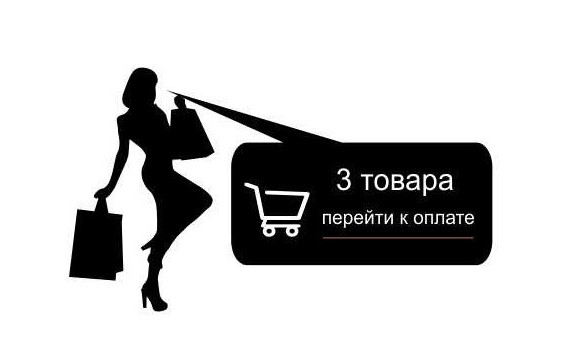
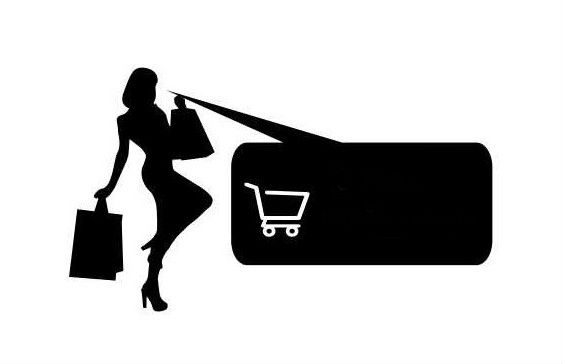
deploy

Changed region(s): [[0.5717, 0.5742, 0.8425, 0.6648], [0.6018, 0.4533, 0.8124, 0.544]]

diff --git a/cart/index.html b/cart/index.html
@@ -65,18 +65,20 @@
         </div>
       </nav>
       <div class='container hidden-xs'>
-        <div class='row'>
-          <div class='col-md-4 col-sm-4 col-xs-4 min_height'>
+        <div class='header-row'>
+          <div class='col col-1'>
             <a href='/storebot/support'>
               <img class='img-responsive' src='/storebot/images/1.jpg'>
             </a>
           </div>
-          <div class='col-md-4 col-sm-4 col-xs-4 min_height'>
+          <div class='col col-2'>
+            <div id='borderLeft'></div>
             <a href='/storebot/cart'>
               <img class='img-responsive' src='/storebot/images/2.jpg'>
             </a>
           </div>
-          <div class='col-md-4 col-sm-4 col-xs-4 min_height'>
+          <div class='col col-3'>
+            <div id='borderLeft'></div>
             <a href='/storebot/map'>
               <img class='img-responsive' src='/storebot/images/3.jpg'>
             </a>

diff --git a/catalog/1/index.html b/catalog/1/index.html
@@ -65,18 +65,20 @@
         </div>
       </nav>
       <div class='container hidden-xs'>
-        <div class='row'>
-          <div class='col-md-4 col-sm-4 col-xs-4 min_height'>
+        <div class='header-row'>
+          <div class='col col-1'>
             <a href='/storebot/support'>
               <img class='img-responsive' src='/storebot/images/1.jpg'>
             </a>
           </div>
-          <div class='col-md-4 col-sm-4 col-xs-4 min_height'>
+          <div class='col col-2'>
+            <div id='borderLeft'></div>
             <a href='/storebot/cart'>
               <img class='img-responsive' src='/storebot/images/2.jpg'>
             </a>
           </div>
-          <div class='col-md-4 col-sm-4 col-xs-4 min_height'>
+          <div class='col col-3'>
+            <div id='borderLeft'></div>
             <a href='/storebot/map'>
               <img class='img-responsive' src='/storebot/images/3.jpg'>
             </a>

diff --git a/catalog/2/index.html b/catalog/2/index.html
@@ -65,18 +65,20 @@
         </div>
       </nav>
       <div class='container hidden-xs'>
-        <div class='row'>
-          <div class='col-md-4 col-sm-4 col-xs-4 min_height'>
+        <div class='header-row'>
+          <div class='col col-1'>
             <a href='/storebot/support'>
               <img class='img-responsive' src='/storebot/images/1.jpg'>
             </a>
           </div>
-          <div class='col-md-4 col-sm-4 col-xs-4 min_height'>
+          <div class='col col-2'>
+            <div id='borderLeft'></div>
             <a href='/storebot/cart'>
               <img class='img-responsive' src='/storebot/images/2.jpg'>
             </a>
           </div>
-          <div class='col-md-4 col-sm-4 col-xs-4 min_height'>
+          <div class='col col-3'>
+            <div id='borderLeft'></div>
             <a href='/storebot/map'>
               <img class='img-responsive' src='/storebot/images/3.jpg'>
             </a>

diff --git a/catalog/3/index.html b/catalog/3/index.html
@@ -65,18 +65,20 @@
         </div>
       </nav>
       <div class='container hidden-xs'>
-        <div class='row'>
-          <div class='col-md-4 col-sm-4 col-xs-4 min_height'>
+        <div class='header-row'>
+          <div class='col col-1'>
             <a href='/storebot/support'>
               <img class='img-responsive' src='/storebot/images/1.jpg'>
             </a>
           </div>
-          <div class='col-md-4 col-sm-4 col-xs-4 min_height'>
+          <div class='col col-2'>
+            <div id='borderLeft'></div>
             <a href='/storebot/cart'>
               <img class='img-responsive' src='/storebot/images/2.jpg'>
             </a>
           </div>
-          <div class='col-md-4 col-sm-4 col-xs-4 min_height'>
+          <div class='col col-3'>
+            <div id='borderLeft'></div>
             <a href='/storebot/map'>
               <img class='img-responsive' src='/storebot/images/3.jpg'>
             </a>

diff --git a/catalog/4/index.html b/catalog/4/index.html
@@ -65,18 +65,20 @@
         </div>
       </nav>
       <div class='container hidden-xs'>
-        <div class='row'>
-          <div class='col-md-4 col-sm-4 col-xs-4 min_height'>
+        <div class='header-row'>
+          <div class='col col-1'>
             <a href='/storebot/support'>
               <img class='img-responsive' src='/storebot/images/1.jpg'>
             </a>
           </div>
-          <div class='col-md-4 col-sm-4 col-xs-4 min_height'>
+          <div class='col col-2'>
+            <div id='borderLeft'></div>
             <a href='/storebot/cart'>
               <img class='img-responsive' src='/storebot/images/2.jpg'>
             </a>
           </div>
-          <div class='col-md-4 col-sm-4 col-xs-4 min_height'>
+          <div class='col col-3'>
+            <div id='borderLeft'></div>
             <a href='/storebot/map'>
               <img class='img-responsive' src='/storebot/images/3.jpg'>
             </a>

diff --git a/catalog/5/index.html b/catalog/5/index.html
@@ -65,18 +65,20 @@
         </div>
       </nav>
       <div class='container hidden-xs'>
-        <div class='row'>
-          <div class='col-md-4 col-sm-4 col-xs-4 min_height'>
+        <div class='header-row'>
+          <div class='col col-1'>
             <a href='/storebot/support'>
               <img class='img-responsive' src='/storebot/images/1.jpg'>
             </a>
           </div>
-          <div class='col-md-4 col-sm-4 col-xs-4 min_height'>
+          <div class='col col-2'>
+            <div id='borderLeft'></div>
             <a href='/storebot/cart'>
               <img class='img-responsive' src='/storebot/images/2.jpg'>
             </a>
           </div>
-          <div class='col-md-4 col-sm-4 col-xs-4 min_height'>
+          <div class='col col-3'>
+            <div id='borderLeft'></div>
             <a href='/storebot/map'>
               <img class='img-responsive' src='/storebot/images/3.jpg'>
             </a>

diff --git a/catalog/6/index.html b/catalog/6/index.html
@@ -65,18 +65,20 @@
         </div>
       </nav>
       <div class='container hidden-xs'>
-        <div class='row'>
-          <div class='col-md-4 col-sm-4 col-xs-4 min_height'>
+        <div class='header-row'>
+          <div class='col col-1'>
             <a href='/storebot/support'>
               <img class='img-responsive' src='/storebot/images/1.jpg'>
             </a>
           </div>
-          <div class='col-md-4 col-sm-4 col-xs-4 min_height'>
+          <div class='col col-2'>
+            <div id='borderLeft'></div>
             <a href='/storebot/cart'>
               <img class='img-responsive' src='/storebot/images/2.jpg'>
             </a>
           </div>
-          <div class='col-md-4 col-sm-4 col-xs-4 min_height'>
+          <div class='col col-3'>
+            <div id='borderLeft'></div>
             <a href='/storebot/map'>
               <img class='img-responsive' src='/storebot/images/3.jpg'>
             </a>

diff --git a/catalog/template/index.html b/catalog/template/index.html
@@ -65,18 +65,20 @@
         </div>
       </nav>
       <div class='container hidden-xs'>
-        <div class='row'>
-          <div class='col-md-4 col-sm-4 col-xs-4 min_height'>
+        <div class='header-row'>
+          <div class='col col-1'>
             <a href='/storebot/support'>
               <img class='img-responsive' src='/storebot/images/1.jpg'>
             </a>
           </div>
-          <div class='col-md-4 col-sm-4 col-xs-4 min_height'>
+          <div class='col col-2'>
+            <div id='borderLeft'></div>
             <a href='/storebot/cart'>
               <img class='img-responsive' src='/storebot/images/2.jpg'>
             </a>
           </div>
-          <div class='col-md-4 col-sm-4 col-xs-4 min_height'>
+          <div class='col col-3'>
+            <div id='borderLeft'></div>
             <a href='/storebot/map'>
               <img class='img-responsive' src='/storebot/images/3.jpg'>
             </a>

diff --git a/index.html b/index.html
@@ -65,18 +65,20 @@
         </div>
       </nav>
       <div class='container hidden-xs'>
-        <div class='row'>
-          <div class='col-md-4 col-sm-4 col-xs-4 min_height'>
+        <div class='header-row'>
+          <div class='col col-1'>
             <a href='/storebot/support'>
               <img class='img-responsive' src='/storebot/images/1.jpg'>
             </a>
           </div>
-          <div class='col-md-4 col-sm-4 col-xs-4 min_height'>
+          <div class='col col-2'>
+            <div id='borderLeft'></div>
             <a href='/storebot/cart'>
               <img class='img-responsive' src='/storebot/images/2.jpg'>
             </a>
           </div>
-          <div class='col-md-4 col-sm-4 col-xs-4 min_height'>
+          <div class='col col-3'>
+            <div id='borderLeft'></div>
             <a href='/storebot/map'>
               <img class='img-responsive' src='/storebot/images/3.jpg'>
             </a>

diff --git a/map/index.html b/map/index.html
@@ -65,18 +65,20 @@
         </div>
       </nav>
       <div class='container hidden-xs'>
-        <div class='row'>
-          <div class='col-md-4 col-sm-4 col-xs-4 min_height'>
+        <div class='header-row'>
+          <div class='col col-1'>
             <a href='/storebot/support'>
               <img class='img-responsive' src='/storebot/images/1.jpg'>
             </a>
           </div>
-          <div class='col-md-4 col-sm-4 col-xs-4 min_height'>
+          <div class='col col-2'>
+            <div id='borderLeft'></div>
             <a href='/storebot/cart'>
               <img class='img-responsive' src='/storebot/images/2.jpg'>
             </a>
           </div>
-          <div class='col-md-4 col-sm-4 col-xs-4 min_height'>
+          <div class='col col-3'>
+            <div id='borderLeft'></div>
             <a href='/storebot/map'>
               <img class='img-responsive' src='/storebot/images/3.jpg'>
             </a>

diff --git a/support/index.html b/support/index.html
@@ -65,18 +65,20 @@
         </div>
       </nav>
       <div class='container hidden-xs'>
-        <div class='row'>
-          <div class='col-md-4 col-sm-4 col-xs-4 min_height'>
+        <div class='header-row'>
+          <div class='col col-1'>
             <a href='/storebot/support'>
               <img class='img-responsive' src='/storebot/images/1.jpg'>
             </a>
           </div>
-          <div class='col-md-4 col-sm-4 col-xs-4 min_height'>
+          <div class='col col-2'>
+            <div id='borderLeft'></div>
             <a href='/storebot/cart'>
               <img class='img-responsive' src='/storebot/images/2.jpg'>
             </a>
           </div>
-          <div class='col-md-4 col-sm-4 col-xs-4 min_height'>
+          <div class='col col-3'>
+            <div id='borderLeft'></div>
             <a href='/storebot/map'>
               <img class='img-responsive' src='/storebot/images/3.jpg'>
             </a>

diff --git a/stylesheets/site.css b/stylesheets/site.css
@@ -132,3 +132,45 @@
   margin-bottom: 5px;
   padding-top: 10px;
   padding-bottom: 10px; }
+
+/* line 146, site.css.scss */
+.cart {
+  position: relative; }
+
+/* line 150, site.css.scss */
+.cart-heading {
+  position: absolute; }
+
+/* line 154, site.css.scss */
+#mainDiv {
+  height: 100px;
+  width: 80px;
+  position: relative;
+  background: #3beadc; }
+
+/* line 161, site.css.scss */
+.min_height {
+  position: relative; }
+
+/* line 165, site.css.scss */
+#borderLeft {
+  border-left: 2px solid gray;
+  position: absolute;
+  top: 30%;
+  bottom: 20%; }
+
+/* line 172, site.css.scss */
+.header-row {
+  max-height: 200px;
+  position: relative; }
+  /* line 175, site.css.scss */
+  .header-row .col {
+    float: left;
+    width: 33.33333%; }
+  /* line 179, site.css.scss */
+  .header-row .col-2 {
+    position: relative;
+    left: -20px; }
+  /* line 183, site.css.scss */
+  .header-row .col-3 {
+    position: relative; }
